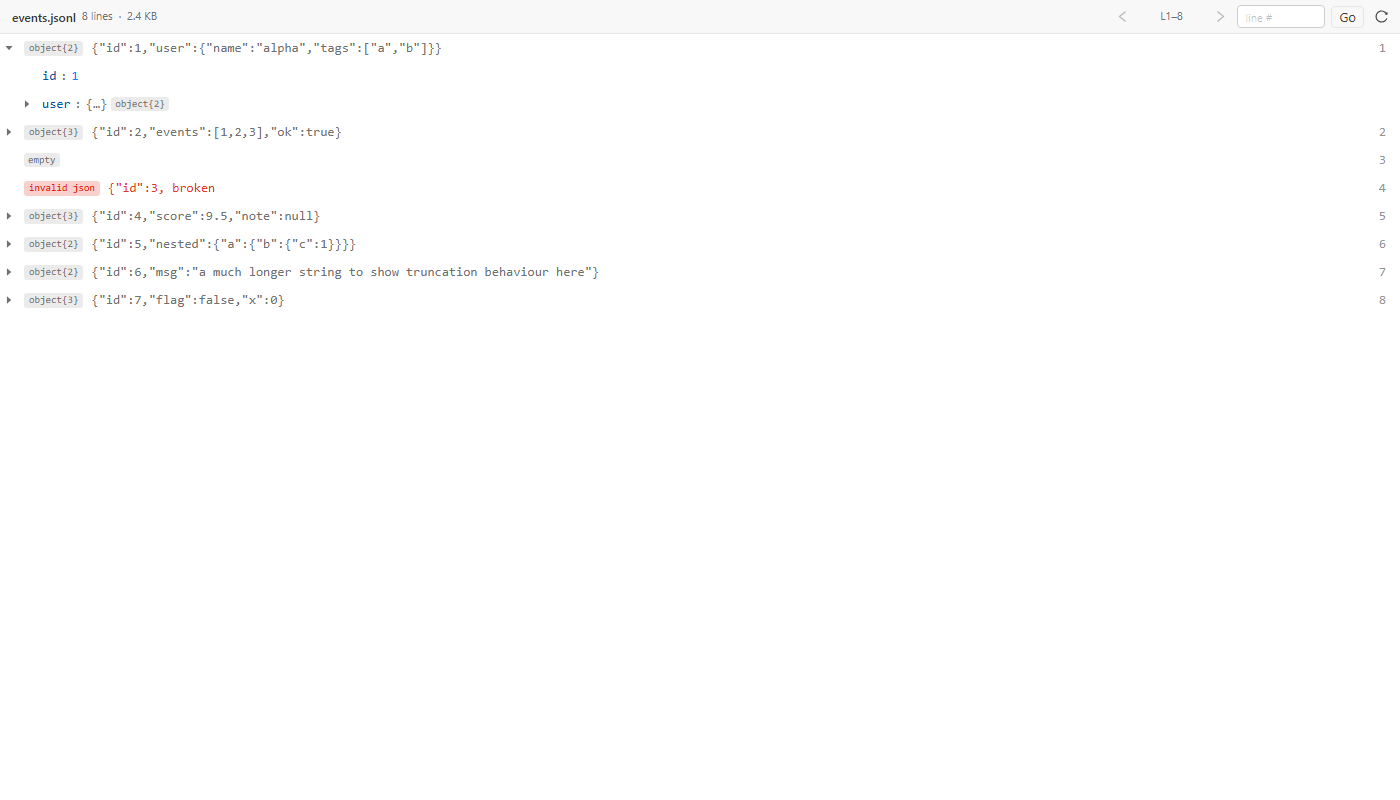
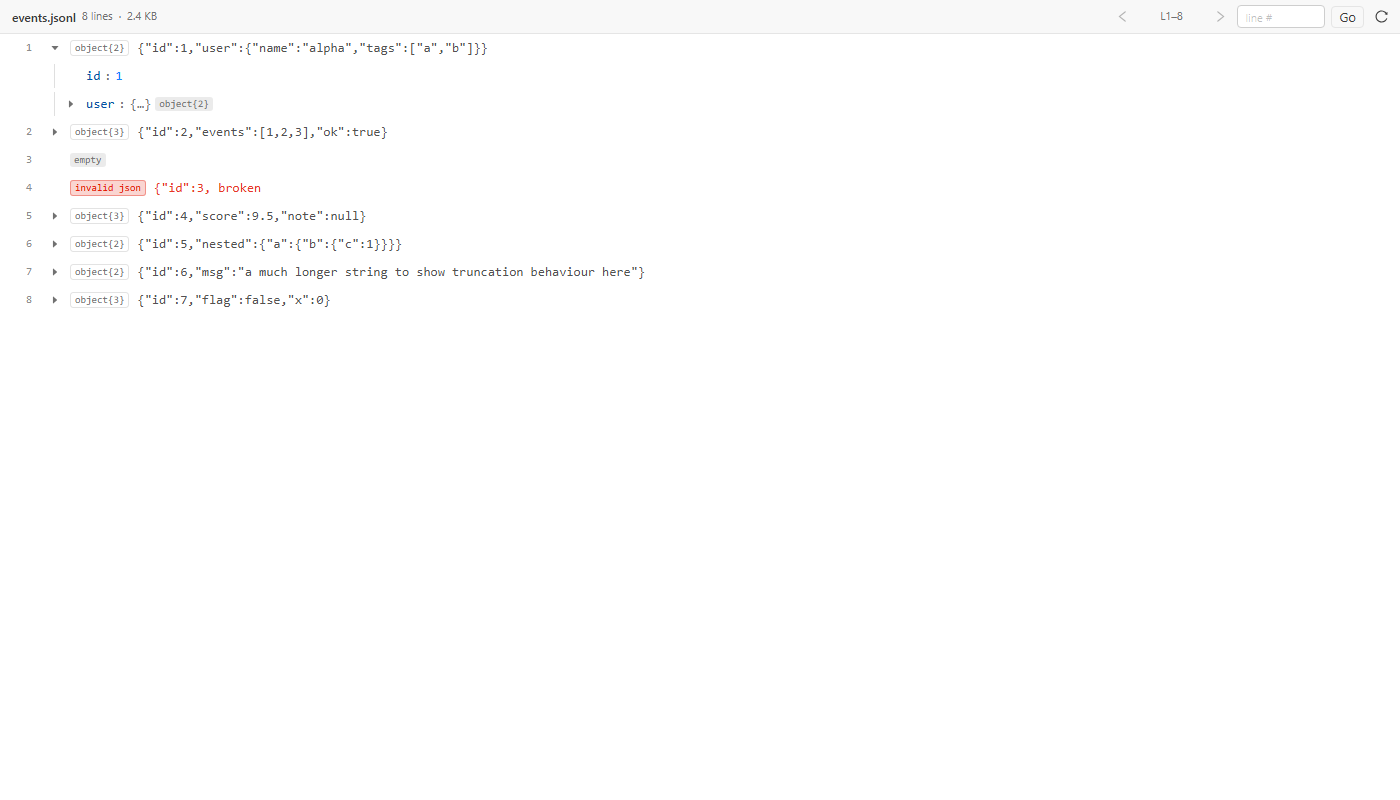
style(jsonl): line-number gutter, indent guides, quieter type chips

Changed region(s): [[0.0, 0.125, 0.4607, 0.4062], [0.0307, 0.0312, 0.3379, 0.0938]]

diff --git a/src/react/view/jsonl/Jsonl.less b/src/react/view/jsonl/Jsonl.less
@@ -177,11 +177,12 @@ body:has(.jsonl-viewer) {
     }
 
     .ant-tree-treenode {
+        position: relative;
         display: flex;
         align-items: center;
         width: 100%;
-        padding: 0;
-        padding-right: 8px;
+        /* leaves a fixed gutter on the left for line numbers */
+        padding: 0 8px 0 46px;
     }
 
     .ant-tree-indent,
@@ -190,6 +191,9 @@ body:has(.jsonl-viewer) {
     }
 
     .ant-tree-node-content-wrapper {
+        /* antd sets `position: relative`, which would make the line number's
+           containing block the content box instead of the row's left gutter. */
+        position: static;
         flex: 1 1 auto;
         min-width: 0;
         height: var(--jl-row-height);
@@ -211,9 +215,10 @@ body:has(.jsonl-viewer) {
     .ant-tree-node-selected .jsonl-row,
     .ant-tree-node-selected .jsonl-key,
     .ant-tree-node-selected .jsonl-val,
-    .ant-tree-node-selected .jsonl-gutter,
+    .ant-tree-node-selected .jsonl-lineno,
     .ant-tree-node-selected .jsonl-raw,
-    .ant-tree-node-selected .jsonl-colon {
+    .ant-tree-node-selected .jsonl-colon,
+    .ant-tree-node-selected .jsonl-chip {
         color: var(--jl-active-fg) !important;
     }
 
@@ -230,12 +235,26 @@ body:has(.jsonl-viewer) {
         font-size: 10px;
     }
 
+    /* indent guides, VS Code explorer style */
+
     .ant-tree-indent {
         align-self: stretch;
+        display: flex;
     }
 
     .ant-tree-indent-unit {
-        width: 18px;
+        position: relative;
+        width: 16px;
+        height: var(--jl-row-height);
+    }
+
+    .ant-tree-indent-unit::before {
+        content: '';
+        position: absolute;
+        top: 0;
+        bottom: 0;
+        left: 50%;
+        border-left: 1px solid var(--vscode-tree-indentGuidesStroke, color-mix(in srgb, var(--jl-fg) 16%, transparent));
     }
 }
 
@@ -253,33 +272,41 @@ body:has(.jsonl-viewer) {
 }
 
 .jsonl-lineno {
-    flex: 0 0 auto;
-    margin-left: auto;
-    padding-left: 12px;
+    /* fixed gutter at the far left of the row; the tree keeps its own indent */
+    position: absolute;
+    left: 0;
+    width: 40px;
+    padding-right: 8px;
+    text-align: right;
+    font-size: 11px;
+    line-height: var(--jl-row-height);
     color: var(--jl-gutter);
     font-variant-numeric: tabular-nums;
     user-select: none;
-    opacity: 0.75;
+    pointer-events: none;
+    opacity: 0.8;
 }
 
 .jsonl-chip {
     flex: 0 0 auto;
-    padding: 0 5px;
+    padding: 0 4px;
     border-radius: 3px;
+    border: 1px solid color-mix(in srgb, var(--jl-fg) 14%, transparent);
     font-size: 10px;
-    line-height: 15px;
+    line-height: 14px;
     text-transform: lowercase;
-    background: var(--jl-chip-bg);
     color: var(--jl-muted);
 }
 
 .jsonl-chip--error {
-    background: color-mix(in srgb, var(--jl-error) 20%, transparent);
+    background: color-mix(in srgb, var(--jl-error) 18%, transparent);
+    border-color: color-mix(in srgb, var(--jl-error) 35%, transparent);
     color: var(--jl-error);
 }
 
 .jsonl-chip--warn {
-    background: color-mix(in srgb, var(--jl-warn) 20%, transparent);
+    background: color-mix(in srgb, var(--jl-warn) 18%, transparent);
+    border-color: color-mix(in srgb, var(--jl-warn) 35%, transparent);
     color: var(--jl-warn);
 }
 
@@ -298,7 +325,8 @@ body:has(.jsonl-viewer) {
     min-width: 0;
     overflow: hidden;
     text-overflow: ellipsis;
-    color: var(--jl-muted);
+    color: var(--jl-fg);
+    opacity: 0.88;
 }
 
 .jsonl-kv {
